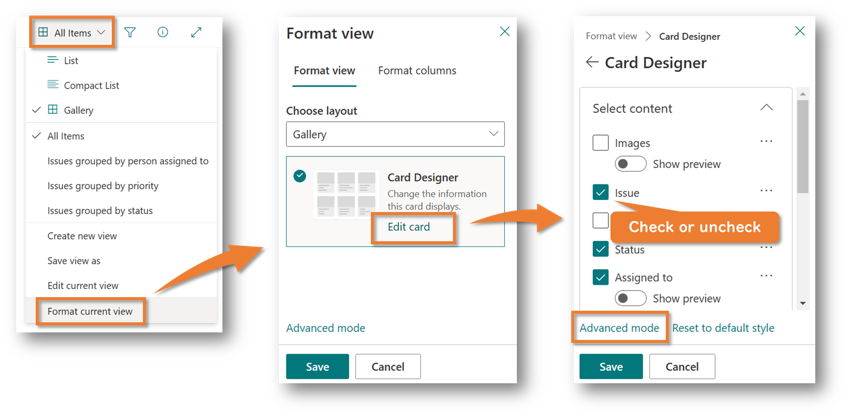
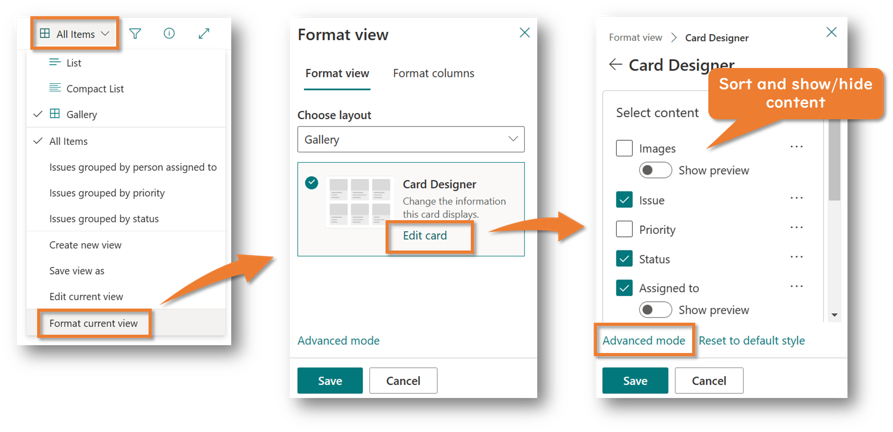
Fixed about advanced mode

diff --git a/content/post/how-to-change-the-background-color-of-cards-in-the-gallery-view/index.md b/content/post/how-to-change-the-background-color-of-cards-in-the-gallery-view/index.md
@@ -27,7 +27,7 @@ The following describes how to change the background color of cards in the galle
 1. Open the Gallery view in Microsoft Lists
 2. Click on the name of the view displayed on the command bar > Click **Format curret view**
 3. Click **Edit card**
-4. Check the columns you want to show on the card and uncheck the columns you do not want to show
+4. Sort and show/hide content
 5. Click **Advance mode**
 
     ![steps to open advance mode](./images/steps-to-open-advance-mode.png)
